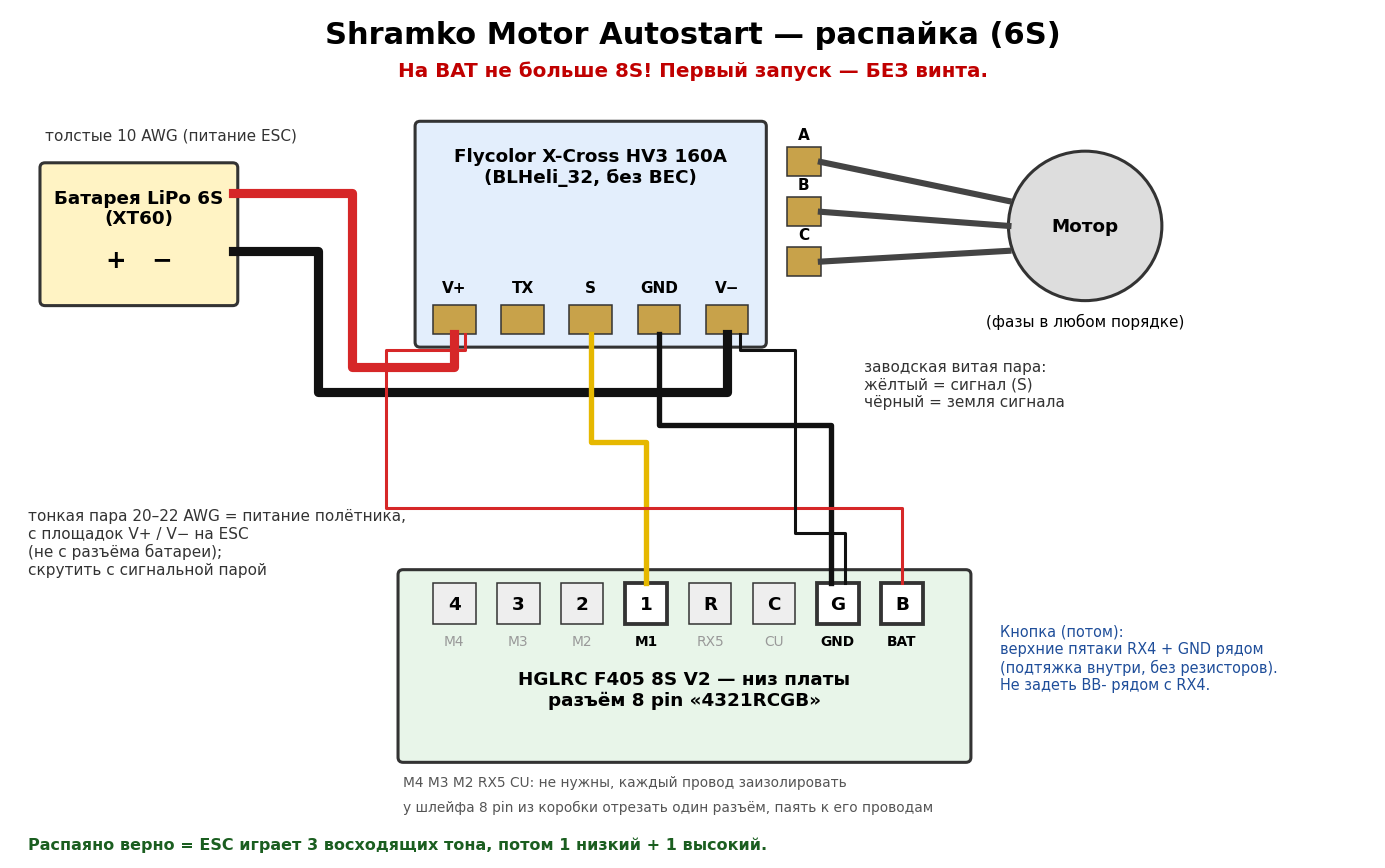
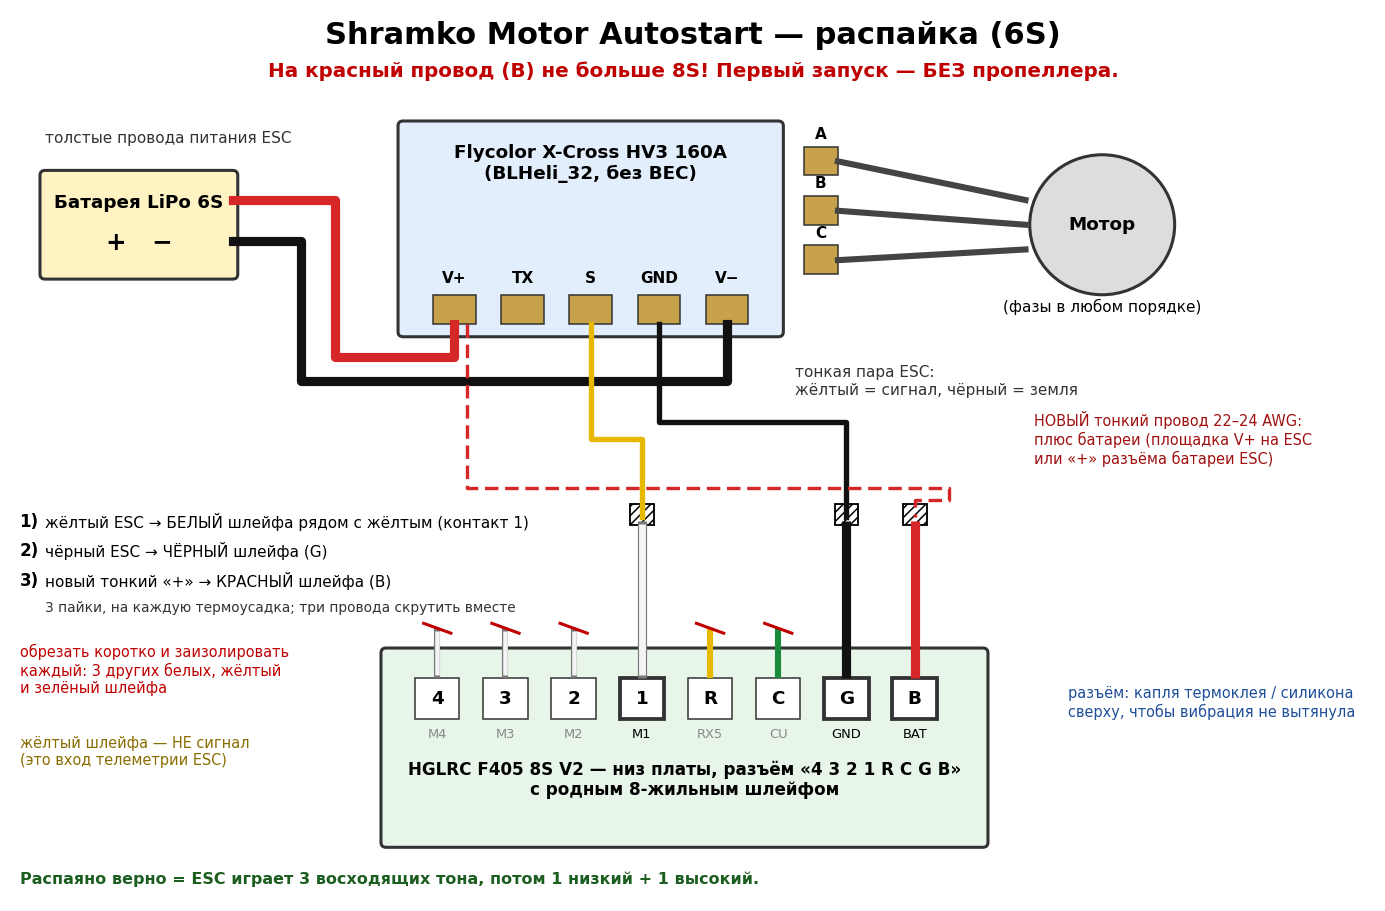
Wiring with the FC's own 8-wire cable (white x4, yellow, green, black, red): 3 joints, FC ground through the ESC signal ground; drive motors 1-4 by default; self-test picks the answering ESC output

diff --git a/tools/wiring_diagram.py b/tools/wiring_diagram.py
@@ -1,4 +1,5 @@
-"""Draws the wiring diagram for Shramko Motor Autostart (HGLRC F405 8S V2 + Flycolor X-Cross HV3 160A, 6S).
+"""Draws the wiring diagram for Shramko Motor Autostart (HGLRC F405 8S V2 + Flycolor X-Cross HV3 160A, 6S),
+with the real colours of the 8-wire cable that comes with the flight controller.
 usage: python wiring_diagram.py <out.png> [ru|en]
 """
 import sys
@@ -12,93 +13,115 @@ lang = sys.argv[2] if len(sys.argv) > 2 else "en"
 T = {
     "en": dict(
         title="Shramko Motor Autostart — wiring (6S)",
-        batt="LiPo 6S battery\n(XT60)", esc="Flycolor X-Cross HV3 160A\n(BLHeli_32, no BEC)",
-        fc="HGLRC F405 8S V2 — underside\n8-pin connector \"4321RCGB\"",
-        motor="Motor\n(any phase order)", thick="thick 10 AWG (ESC power)",
-        thin="thin pair 20–22 AWG = FC power,\ntaken from the ESC battery pads V+ / V−\n(not from the battery plug);\ntwist it with the signal pair",
-        sig="factory twisted pair:\nyellow = signal (S)\nblack = signal ground",
-        unused="M4 M3 M2 RX5 CU: not used, insulate each wire",
-        cut="cut one end off the supplied 8-pin cable, solder to its wires",
-        btn="Optional button (later):\ntop-side pads RX4 + GND\n(internal pull-up, no resistors).\nDo not touch BB- next to RX4.",
-        warn="Max 8S on BAT! First power-up WITHOUT propeller.",
+        warn="Max 8S on the red wire (B)! First power-up WITHOUT propeller.",
+        batt="LiPo 6S battery", esc="Flycolor X-Cross HV3 160A\n(BLHeli_32, no BEC)",
+        motor="Motor", phases="(any phase order)",
+        thick="thick ESC power leads",
+        fc="HGLRC F405 8S V2 — underside, connector \"4 3 2 1 R C G B\"\nwith the supplied 8-wire cable plugged in",
+        sig="ESC thin pair:\nyellow = signal, black = ground",
+        tap="NEW thin wire 22–24 AWG:\nbattery + (ESC V+ pad or the\n+ cup of the ESC's battery plug)",
+        j1="ESC yellow → cable WHITE next to the yellow (pin 1)",
+        j2="ESC black → cable BLACK (G)",
+        j3="new thin + → cable RED (B)",
+        cut="cut short + insulate each:\n3 other whites, cable yellow, green",
+        notyellow="the cable's yellow is NOT the signal\n(it is ESC telemetry input)",
+        glue="plug: a drop of hot glue / silicone\nover it so vibration can't pull it out",
         beeps="Correct wiring = ESC plays 3 rising tones, then 1 low + 1 high tone.",
+        joints="3 solder joints, each with heat-shrink; twist the 3 wires together",
     ),
     "ru": dict(
         title="Shramko Motor Autostart — распайка (6S)",
-        batt="Батарея LiPo 6S\n(XT60)", esc="Flycolor X-Cross HV3 160A\n(BLHeli_32, без BEC)",
-        fc="HGLRC F405 8S V2 — низ платы\nразъём 8 pin «4321RCGB»",
-        motor="Мотор\n(фазы в любом порядке)", thick="толстые 10 AWG (питание ESC)",
-        thin="тонкая пара 20–22 AWG = питание полётника,\nс площадок V+ / V− на ESC\n(не с разъёма батареи);\nскрутить с сигнальной парой",
-        sig="заводская витая пара:\nжёлтый = сигнал (S)\nчёрный = земля сигнала",
-        unused="M4 M3 M2 RX5 CU: не нужны, каждый провод заизолировать",
-        cut="у шлейфа 8 pin из коробки отрезать один разъём, паять к его проводам",
-        btn="Кнопка (потом):\nверхние пятаки RX4 + GND рядом\n(подтяжка внутри, без резисторов).\nНе задеть BB- рядом с RX4.",
-        warn="На BAT не больше 8S! Первый запуск — БЕЗ винта.",
+        warn="На красный провод (B) не больше 8S! Первый запуск — БЕЗ пропеллера.",
+        batt="Батарея LiPo 6S", esc="Flycolor X-Cross HV3 160A\n(BLHeli_32, без BEC)",
+        motor="Мотор", phases="(фазы в любом порядке)",
+        thick="толстые провода питания ESC",
+        fc="HGLRC F405 8S V2 — низ платы, разъём «4 3 2 1 R C G B»\nс родным 8-жильным шлейфом",
+        sig="тонкая пара ESC:\nжёлтый = сигнал, чёрный = земля",
+        tap="НОВЫЙ тонкий провод 22–24 AWG:\nплюс батареи (площадка V+ на ESC\nили «+» разъёма батареи ESC)",
+        j1="жёлтый ESC → БЕЛЫЙ шлейфа рядом с жёлтым (контакт 1)",
+        j2="чёрный ESC → ЧЁРНЫЙ шлейфа (G)",
+        j3="новый тонкий «+» → КРАСНЫЙ шлейфа (B)",
+        cut="обрезать коротко и заизолировать\nкаждый: 3 других белых, жёлтый\nи зелёный шлейфа",
+        notyellow="жёлтый шлейфа — НЕ сигнал\n(это вход телеметрии ESC)",
+        glue="разъём: капля термоклея / силикона\nсверху, чтобы вибрация не вытянула",
         beeps="Распаяно верно = ESC играет 3 восходящих тона, потом 1 низкий + 1 высокий.",
+        joints="3 пайки, на каждую термоусадка; три провода скрутить вместе",
     ),
 }[lang]
 
-fig, ax = plt.subplots(figsize=(16, 10), dpi=110)
+fig, ax = plt.subplots(figsize=(16, 10.5), dpi=110)
 ax.set_xlim(0, 160)
-ax.set_ylim(-12, 90)
+ax.set_ylim(-16, 92)
 ax.axis("off")
-ax.text(80, 87, T["title"], ha="center", va="center", fontsize=20, weight="bold")
-ax.text(80, 82, T["warn"], ha="center", fontsize=13, color="#c00000", weight="bold")
+ax.text(80, 89, T["title"], ha="center", va="center", fontsize=20, weight="bold")
+ax.text(80, 84, T["warn"], ha="center", fontsize=13, color="#c00000", weight="bold")
 
-def box(x, y, w, h, label, fc="#f2f2f2", ec="#333", fs=12, ty=None):
-    ax.add_patch(FancyBboxPatch((x, y), w, h, boxstyle="round,pad=0.6", fc=fc, ec=ec, lw=2))
-    ax.text(x + w / 2, (y + h - 2.5) if ty is None else ty, label, ha="center", va="top", fontsize=fs, weight="bold")
 
-# battery
-box(4, 55, 22, 16, T["batt"], fc="#fff3c4")
-ax.text(15, 59, "+   −", ha="center", fontsize=16, weight="bold")
-# ESC
-box(48, 50, 40, 26, T["esc"], fc="#e3eefc")
-pads = [("V+", "#d62728"), ("TX", "#999999"), ("S", "#e6b800"), ("GND", "#111111"), ("V−", "#111111")]
-for i, (p, c) in enumerate(pads):
+def box(x, y, w, h, label, fc, fs=12, ty=None):
+    ax.add_patch(FancyBboxPatch((x, y), w, h, boxstyle="round,pad=0.6", fc=fc, ec="#333", lw=2))
+    ax.text(x + w / 2, (y + h - 2.2) if ty is None else ty, label, ha="center", va="top", fontsize=fs, weight="bold")
+
+
+# battery + thick leads
+box(4, 60, 22, 12, T["batt"], "#fff3c4")
+ax.text(15, 63, "+   −", ha="center", fontsize=16, weight="bold")
+ax.plot([26, 38, 38, 52, 52], [69, 69, 50, 50, 54], color="#d62728", lw=6)
+ax.plot([26, 34, 34, 84, 84], [64, 64, 47, 47, 54], color="#111", lw=6)
+ax.text(4, 76, T["thick"], fontsize=10, color="#333")
+
+# ESC with pads V+ TX S GND V-
+box(46, 53, 44, 25, T["esc"], "#e3eefc")
+pads = ["V+", "TX", "S", "GND", "V−"]
+for i, p in enumerate(pads):
     px = 52 + i * 8
-    ax.add_patch(Rectangle((px - 2.5, 51), 5, 3.5, fc="#c8a24a", ec="#333"))
-    ax.text(px, 56, p, ha="center", fontsize=10, weight="bold")
-# phases + motor
+    ax.add_patch(Rectangle((px - 2.5, 54), 5, 3.5, fc="#c8a24a", ec="#333"))
+    ax.text(px, 59, p, ha="center", fontsize=10, weight="bold")
 for i, ph in enumerate("ABC"):
-    y = 70 - i * 6
-    ax.add_patch(Rectangle((91, y), 4, 3.5, fc="#c8a24a", ec="#333"))
-    ax.text(93, y + 5, ph, ha="center", va="center", fontsize=10, weight="bold")
-    ax.plot([95, 117], [y + 1.7, 64 + (1 - i) * 3], color="#444", lw=4)
-ax.add_patch(Circle((126, 64), 9, fc="#dddddd", ec="#333", lw=2))
-ax.text(126, 64, T["motor"].split(chr(10))[0], ha="center", va="center", fontsize=12, weight="bold")
-ax.text(126, 52.5, T["motor"].split(chr(10))[1], ha="center", va="center", fontsize=10)
+    y = 72 - i * 6
+    ax.add_patch(Rectangle((93, y), 4, 3.5, fc="#c8a24a", ec="#333"))
+    ax.text(95, y + 5, ph, ha="center", va="center", fontsize=10, weight="bold")
+    ax.plot([97, 119], [y + 1.7, 66 + (1 - i) * 3], color="#444", lw=4)
+ax.add_patch(Circle((128, 66), 8.5, fc="#dddddd", ec="#333", lw=2))
+ax.text(128, 66, T["motor"], ha="center", va="center", fontsize=12, weight="bold")
+ax.text(128, 55.5, T["phases"], ha="center", fontsize=10)
 
-# thick power battery -> ESC
-ax.plot([26, 40, 40, 52, 52], [68, 68, 47, 47, 51], color="#d62728", lw=6)
-ax.plot([26, 36, 36, 84, 84], [61, 61, 44, 44, 51], color="#111", lw=6)
-ax.text(4, 75, T["thick"], fontsize=10, color="#333", va="center")
+# FC connector + cable stubs with real colours
+fx, fy = 50, 6
+box(fx - 6, -9, 70, 23, T["fc"], "#e8f5e9", fs=11, ty=1.0)
+labels = list("4321RCGB")
+colors = ["#f4f4f4", "#f4f4f4", "#f4f4f4", "#f4f4f4", "#e6b800", "#1b8a3a", "#111111", "#d62728"]
+names = ["M4", "M3", "M2", "M1", "RX5", "CU", "GND", "BAT"]
+xs = [fx + i * 8 for i in range(8)]
+for x, lab, col, nm in zip(xs, labels, colors, names):
+    used = lab in ("1", "G", "B")
+    ax.add_patch(Rectangle((x - 2.6, fy), 5.2, 5, fc="#ffffff", ec="#333", lw=2.5 if used else 1))
+    ax.text(x, fy + 2.5, lab, ha="center", va="center", fontsize=12, weight="bold")
+    ax.text(x, fy - 1.8, nm, ha="center", va="center", fontsize=8.5, color="#000" if used else "#888")
+    top = 30 if used else 17
+    ax.plot([x, x], [fy + 5, top], color="#777" if col == "#f4f4f4" else col, lw=6 if used else 4, solid_capstyle="butt")
+    if col == "#f4f4f4":
+        ax.plot([x, x], [fy + 5.3, top - 0.3], color=col, lw=4.5 if used else 3, solid_capstyle="butt")
+    if not used:
+        ax.plot([x - 1.6, x + 1.6], [top + 0.6, top - 0.6], color="#c00000", lw=2)   # cut mark
+x_m1, x_g, x_b = xs[3], xs[6], xs[7]
 
-# FC connector (pins on top edge of the box, title below them)
-fx, fy = 52, 16
-box(fx - 6, 0, 66, 22, T["fc"], fc="#e8f5e9", ty=10.5)
-pins = ["M4", "M3", "M2", "M1", "RX5", "CU", "GND", "BAT"]
-silk = list("4321RCGB")
-for i, (p, s_) in enumerate(zip(pins, silk)):
-    px = fx + i * 7.5
-    used = p in ("M1", "GND", "BAT")
-    ax.add_patch(Rectangle((px - 2.5, fy), 5, 5, fc="#ffffff" if used else "#eeeeee", ec="#333", lw=2.5 if used else 1))
-    ax.text(px, fy + 2.5, s_, ha="center", va="center", fontsize=12, weight="bold")
-    ax.text(px, fy - 2, p, ha="center", va="center", fontsize=9, color="#000" if used else "#999", weight="bold" if used else "normal")
-x_m1, x_gnd, x_bat = fx + 3 * 7.5, fx + 6 * 7.5, fx + 7 * 7.5
-top = fy + 5
-# signal pair from ESC S/GND
-ax.plot([68, 68, x_m1, x_m1], [51, 38, 38, top], color="#e6b800", lw=3.5)
-ax.plot([76, 76, x_gnd - 0.8, x_gnd - 0.8], [51, 40, 40, top], color="#111", lw=3.5)
-ax.text(100, 45, T["sig"], fontsize=10, color="#333", va="center")
-# thin FC power from battery
-ax.plot([53.2, 53.2, 44, 44, x_bat, x_bat], [51, 49, 49, 30, 30, top], color="#d62728", lw=2)
-ax.plot([85.5, 85.5, 92, 92, x_gnd + 0.8, x_gnd + 0.8], [51, 49, 49, 27, 27, top], color="#111", lw=2)
-ax.text(2, 30, T["thin"], fontsize=10, color="#333", va="top")
-ax.text(fx - 6, -3.5, T["unused"], fontsize=9, color="#555")
-ax.text(fx - 6, -6.5, T["cut"], fontsize=9, color="#555")
+# ESC thin pair -> cable
+ax.plot([68, 68, x_m1, x_m1], [54, 40, 40, 30.5], color="#e6b800", lw=3.5)
+ax.plot([76, 76, x_g, x_g], [54, 42, 42, 30.5], color="#111", lw=3.5)
+# new thin + from ESC V+ pad -> red
+ax.plot([53.5, 53.5, 110, 110, x_b, x_b], [54, 34, 34, 32.6, 32.6, 30.5], color="#d62728", lw=2.2, ls=(0, (4, 2)))
+for x in (x_m1, x_g, x_b):
+    ax.add_patch(Rectangle((x - 1.4, 29.5), 2.8, 2.6, fc="#ffffff", ec="#000", lw=1.2, hatch="////"))   # solder joint + heat-shrink
 
-ax.text(116, 12, T["btn"], fontsize=9.5, color="#1f4e9a", va="center")
-ax.text(2, -11, T["beeps"], fontsize=10.5, color="#1b5e20", weight="bold")
+ax.text(92, 47, T["sig"], fontsize=10, color="#333", va="center")
+ax.text(120, 40, T["tap"], fontsize=9.5, color="#a01010", va="center")
+for i, key in enumerate(("j1", "j2", "j3")):
+    ax.text(1, 30 - i * 3.6, "%d)" % (i + 1), fontsize=11, weight="bold", va="center")
+    ax.text(4, 30 - i * 3.6, T[key], fontsize=10, va="center")
+ax.text(4, 19.5, T["joints"], fontsize=9, color="#333", va="center")
+ax.text(1, 12, T["cut"], fontsize=9.5, color="#c00000", va="center")
+ax.text(1, 2, T["notyellow"], fontsize=9.5, color="#8a6d00", va="center")
+ax.text(124, 8, T["glue"], fontsize=9.5, color="#1f4e9a", va="center")
+ax.text(1, -14, T["beeps"], fontsize=10.5, color="#1b5e20", weight="bold")
 fig.savefig(out, bbox_inches="tight", facecolor="white")
 print("saved", out)

diff --git a/tools/autostart_selftest.py b/tools/autostart_selftest.py
@@ -125,9 +125,16 @@ def capture(a):
         motors = struct.unpack("<%dH" % (len(m) // 2), m)
         dbg = struct.unpack("<8h", d[:16])
         rpm, inv, vbat = -1, -1.0, -1.0
-        if t and t[0] >= a.motor and len(t) >= 1 + 13 * a.motor:
-            rpm, inv_raw = struct.unpack_from("<IH", t, 1 + 13 * (a.motor - 1))
-            inv = inv_raw / 100.0
+        if t and t[0] >= 1:
+            # all four outputs may carry the signal: report the motor whose ESC answers best
+            best = None
+            for i in range(min(t[0], 8)):
+                if len(t) >= 1 + 13 * (i + 1):
+                    r_, inv_raw = struct.unpack_from("<IH", t, 1 + 13 * i)
+                    if best is None or inv_raw < best[1]:
+                        best = (r_, inv_raw)
+            if best:
+                rpm, inv = best[0], best[1] / 100.0
         if b and len(b) >= 11:
             vbat = struct.unpack_from("<H", b, 9)[0] / 100.0
         f = dbg[4]

diff --git a/configs/HGLRC_F405_S8/config.h b/configs/HGLRC_F405_S8/config.h
@@ -150,7 +150,7 @@
 #define AUTOSTART_DEFAULT_DELAY_S      10
 #define AUTOSTART_DEFAULT_RAMP_DS      100     // 10.0 s
 #define AUTOSTART_DEFAULT_THROTTLE_PCT 15
-#define AUTOSTART_DEFAULT_MOTOR_MASK   0x01    // motor 1 = pin "1" of the "4321RCGB" connector (PC9)
+#define AUTOSTART_DEFAULT_MOTOR_MASK   0x0F    // motors 1-4: the four white wires of the "4321RCGB" cable all carry the signal
 #define AUTOSTART_DEFAULT_USB_INHIBIT  0       // owner tests "hot" over USB; the battery gate (autostart_vbat_min) keeps USB-only safe
 #define AUTOSTART_DEFAULT_VBAT_MIN_DV  60      // 6.0 V: countdown starts when the battery is plugged in
 

diff --git a/docs/wiring.md b/docs/wiring.md
@@ -19,18 +19,22 @@
 | `TX` (empty) | KISS telemetry | optional → pin `R` (UART5 RX, PD2) + `feature ESC_SENSOR` |
 | A / B / C | motor phases | motor, any order (direction is set in BLHeliSuite32 or via DShot commands) |
 
-## FC underside connector `4321RCGB` (JST-SH 8-pin)
+## FC underside connector `4321RCGB` (JST-SH 8-pin) and its cable
 
-Silkscreen order `4 3 2 1 R C G B` = `M4 M3 M2 M1 RX5 CU GND BAT`. The second connector `8765RCGB` carries motors 5–8. Cut one end off the supplied 8-pin cable and solder to its wires:
+Silkscreen order `4 3 2 1 R C G B` = `M4 M3 M2 M1 RX5 CU GND BAT`. The supplied 8-wire cable, plugged in, has these colours (checked on the owner's board photo): **white, white, white, white, yellow, green, black, red**. Cut the far end off and make three joints (solder + heat-shrink each, twist the three wires together):
 
-| Pin | Signal | Wire |
-|---|---|---|
-| `1` | motor 1 | ESC yellow |
-| `G` | ground | ESC black **and** the thin − from the ESC's `V−` pad |
-| `B` | board power in | thin + (20–22 AWG) from the ESC's `V+` pad |
-| `4 3 2 R C` | unused | insulate each |
+| Pin | Signal | Cable wire | Goes to |
+|---|---|---|---|
+| `1` | motor 1 | **white next to the yellow** | ESC **yellow** (signal, pad `S`) |
+| `G` | ground | **black** | ESC **black** (pad `GND`) |
+| `B` | board power in | **red** | **new** thin wire 22–24 AWG from battery + (ESC `V+` pad or the + cup of the ESC's battery plug) |
+| `4 3 2 R C` | unused | 3 other whites, **yellow**, green | cut short, insulate **each** |
 
-**Take the FC's thin power pair from the ESC's own battery pads (`V+` / `V−`), not from the battery plug, and twist it together with the yellow/black signal pair.** If it were tapped at the plug and the ESC's thick negative lead ever came loose, the ESC's return current (tens of amps) would flow through the thin signal ground and the FC's ground plane. Tapping at the ESC pads also keeps the FC and ESC grounds at the same potential (no I·R drop of the 10 AWG lead between them).
+- The cable's **yellow is not the signal** — it is the ESC-telemetry input (UART5 RX). The ESC's yellow goes to a **white**.
+- This build drives motors 1–4 with the same signal (`autostart_motors = 15`), so any of the four whites works; the one next to the yellow is pin 1.
+- The FC's ground comes through the ESC's black signal wire: inside the ESC the `GND` pad is the battery minus, and the FC draws only ~0.1–0.2 A. There is no second ground path, so if a thick ESC lead ever comes loose no ESC current can flow through the thin wires or the FC.
+- **Red = battery voltage.** Its joint must be fully insulated: battery + touching any white/yellow/green wire destroys the FC's processor.
+- After plugging the cable in, put a drop of hot glue or neutral silicone over the plug so vibration cannot pull it out. Soldering directly to the connector's 1 mm-pitch legs is possible but not recommended; the 12 square pads along that edge have no documented pin map.
 
 **Never put more than 8S on `B`.** For 10–12S feed `B/G` from a 12S-rated BEC (e.g. Matek BEC12S-PRO set to 12 V).
 

diff --git a/README.md b/README.md
@@ -46,7 +46,7 @@ Safety: the ESC always gets ≥ 3 s of stop frames after it is powered before th
 | `autostart_delay` | `10` | 0–600 s | delay before the ramp, counted **from power-on** (POWER) or from the click |
 | `autostart_ramp` | `100` | 0–6000 (0.1 s) | ramp time 0 → target; `100` = 10.0 s |
 | `autostart_throttle` | `15` | 0–100 % | target throttle, % of the ESC range (1000–2000 µs / DShot 48–2047) |
-| `autostart_motors` | `1` | bitmask | `1` = motor 1, `3` = motors 1+2, `15` = 1–4 … |
+| `autostart_motors` | `15` | bitmask | `15` = motors 1–4 (any of the four signal wires works), `1` = motor 1 only … |
 | `autostart_vbat_min` | `60` | 0–600 (0.1 V) | battery counts as plugged in at ≥ 6.0 V; countdown starts then. `0` = don't check |
 | `autostart_usb_inhibit` | `OFF` (generic builds: `ON`) | `OFF`, `ON` | `ON`: never spin while a USB host is connected |
 | `autostart_box` | `255` (none) | 40–43 | `BOXUSER1..4` permanent id: an AUX switch runs the program while the receiver link is valid |
@@ -65,8 +65,8 @@ save
 
 ![Wiring diagram](docs/img/wiring-en.png)
 
-- ESC **yellow** (middle pad `S`) → FC connector `4321RCGB` pin **`1`** (motor 1, PC9); ESC **black** (pad `GND`) → pin **`G`**.
-- FC power: a thin pair from the **ESC's battery pads `V+`/`V−`** (not the battery plug), twisted with the signal pair → pins **`B`** and **`G`** (the ESC has no BEC). **Max 8S on `B`.**
+- Use the 8-wire cable that comes with the FC (colours on the `4321RCGB` connector: white ×4, yellow, green, black, red). Three joints: ESC **yellow** → cable **white** (pin `1`; this build drives all four whites), ESC **black** → cable **black** (`G`), a new thin wire from **battery +** → cable **red** (`B`). The cable's yellow/green and the other whites are cut and insulated.
+- The FC's ground comes through the ESC's black signal wire (the ESC's `GND` pad is the battery minus); the ESC has no BEC. **Max 8S on `B`.**
 - Optional button: top-side pads **`RX4`** (PA1) + the **`GND`** pad next to it → `resource SERIAL_RX 4 NONE`, `resource AUTOSTART 1 A01`.
 - Correct wiring = on battery the ESC plays 3 rising tones, then 1 low + 1 high tone (signal seen, armed).
 
